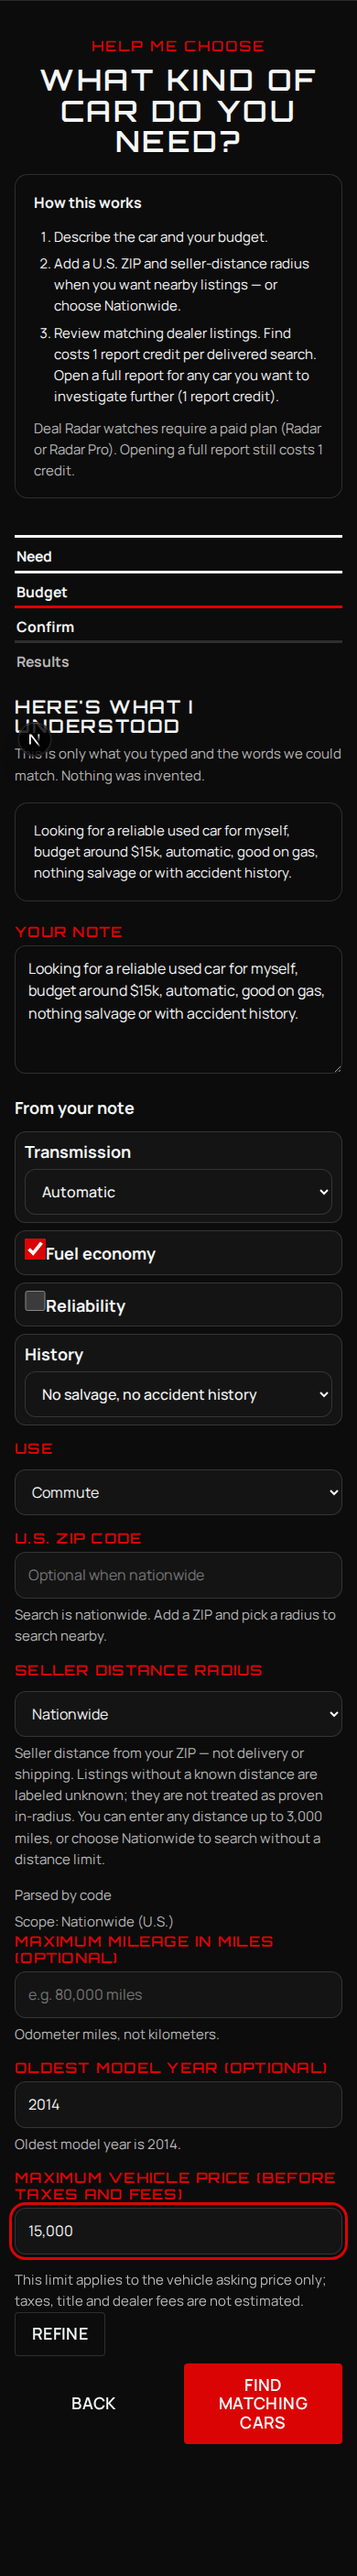
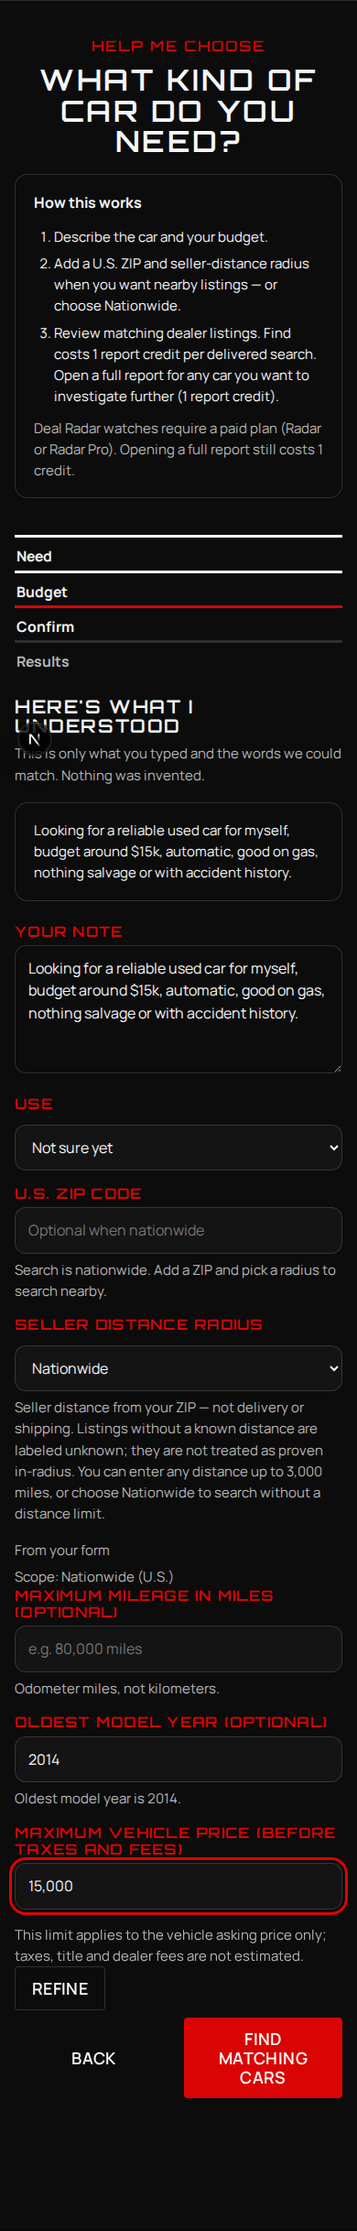
test(e2e): expect Budget-first Find after note-parser removal
Home notes no longer auto-Confirm or prefill from free text. Align
Playwright intake coverage with the thin SERV boundary and refresh
intake screenshots.

Changed region(s): [[0.0, 0.0, 0.9846, 0.9672], [0.8, 0.5616, 0.8615, 0.5928], [0.9231, 0.5616, 0.9538, 0.5928]]

diff --git a/e2e/find-intake.spec.ts b/e2e/find-intake.spec.ts
@@ -21,21 +21,11 @@ async function mockSignedIn(page: Page) {
   });
 }
 
-function budgetUsdFromNote(text: string): number | null {
-  const rangeK = text.match(/(\d{1,3})\s*-\s*(\d{1,3})\s*k\b/i);
-  if (rangeK) return Number(rangeK[2]) * 1000;
-  const k = text.match(/(?:\$|budget|around|under|for)\s*\$?\s*(\d{1,3})\s*k\b/i);
-  if (k) return Number(k[1]) * 1000;
-  const grand = text.match(/(\d{1,3})\s*grand\b/i);
-  if (grand) return Number(grand[1]) * 1000;
-  const dollars = text.match(/for\s+(\d{1,3}(?:,\d{3})*)\s*dollars/i);
-  if (dollars) return Number(dollars[1].replace(/,/g, ""));
-  const cash = text.match(/\$\s*(\d{1,3}(?:,\d{3})*)\b/);
-  if (cash) return Number(cash[1].replace(/,/g, ""));
-  return null;
-}
-
-/** Confirm-entry notes always call /api/need for SERV parse — stub so e2e stays offline. */
+/**
+ * Confirm-entry / Continue calls /api/need for SERV parse — stub so e2e stays offline.
+ * Thin boundary: do not invent budget/transmission/history from note regex; only echo
+ * form-provided fields (and keep the note text).
+ */
 async function mockNeedParse(page: Page) {
   await page.route("**/api/need", async (route) => {
     if (route.request().method() !== "POST") {
@@ -52,9 +42,8 @@ async function mockNeedParse(page: Page) {
     };
     const text = typeof body.text === "string" ? body.text : "";
     const budgetUsd =
-      typeof body.budgetUsd === "number" && Number.isFinite(body.budgetUsd)
-        ? body.budgetUsd
-        : budgetUsdFromNote(text);
+      typeof body.budgetUsd === "number" && Number.isFinite(body.budgetUsd) ? body.budgetUsd : null;
+    const budgetKnown = body.budgetKnown === true && budgetUsd != null;
     await route.fulfill({
       status: 200,
       contentType: "application/json",
@@ -64,13 +53,13 @@ async function mockNeedParse(page: Page) {
         guard: "not_configured",
         need: {
           mode: body.mode === "flip" ? "flip" : "personal",
-          useCase: /family|myself|errands|commute/i.test(text) ? "commute" : "unspecified",
+          useCase: "unspecified",
           note: text,
           budgetUsd,
-          budgetKnown: budgetUsd != null,
+          budgetKnown,
           budgetScope: "car",
           mustHaves: [],
-          priorities: /gas|fuel/i.test(text) ? ["fuel economy"] : [],
+          priorities: [],
           zip: body.zip ?? null,
           distanceMiles: body.distanceMiles ?? null,
           repairAbility: "unknown",
@@ -87,9 +76,9 @@ async function mockNeedParse(page: Page) {
           preferredModelsSource: "none",
           openToOtherMakes: true,
           bodyStyle: null,
-          transmission: /automatic/i.test(text) ? "automatic" : null,
-          fuelEconomyPriority: /gas|fuel/i.test(text),
-          historyPreference: /salvage|accident/i.test(text) ? "no_salvage_no_accidents" : null,
+          transmission: null,
+          fuelEconomyPriority: false,
+          historyPreference: null,
           locationPhrase: null,
         },
         followUps: [],
@@ -142,9 +131,9 @@ async function mockNeedParse(page: Page) {
           },
         ],
         criteriaParse: {
-          source: "code",
+          source: "form",
           responseId: null,
-          label: "Parsed by code",
+          label: "From your form",
         },
       }),
     });
@@ -172,7 +161,7 @@ test("signed-out Find shows sign-in before the form", async ({ page }) => {
   await expect(page.locator("#need")).toHaveCount(0);
 });
 
-test("home note opens Find confirm with the note prefilled", async ({ page }) => {
+test("home note opens Find at Budget — note carried, no code prefill", async ({ page }) => {
   const blocked: string[] = [];
   const blockPaid = async (route: import("@playwright/test").Route) => {
     blocked.push(`${route.request().method()} ${route.request().url()}`);
@@ -199,55 +188,28 @@ test("home note opens Find confirm with the note prefilled", async ({ page }) =>
   await expect(page).toHaveURL(/\/find\?/);
   await expect(page).toHaveURL(/home-mode=on/);
   await expect(page).toHaveURL(/mode=personal/);
-  await expect(page.getByRole("heading", { name: /what i understood/i })).toBeVisible();
-  await expect(page.locator(".progress .is-current")).toHaveText("Confirm");
-  await expect(page.getByLabel(/maximum vehicle price/i)).toHaveValue("15,000");
-  await expect(page.getByLabel("Transmission")).toHaveValue("automatic");
-  await expect(page.getByLabel("History")).toHaveValue("no_salvage_no_accidents");
-  await expect(page.getByRole("checkbox", { name: /fuel economy/i })).toBeChecked();
-  await expect(page.getByText("from your note").first()).toBeVisible();
-  await expect(page.getByText(/you chose no year floor/i)).toHaveCount(0);
-  await expect(page.getByLabel(/maximum vehicle price/i)).toBeVisible();
 
-  const year = page.locator("#year-min-edit");
-  await year.click();
-  await year.pressSequentially("2016", { delay: 30 });
-  await expect(year).toHaveValue("2016");
-  await expect(page.getByText(/you chose no year floor/i)).toHaveCount(0);
-  await year.fill("");
-  await expect(year).toHaveValue("");
-  await expect(page.getByText(/you chose no year floor/i)).toHaveCount(0);
-  await year.pressSequentially("2014", { delay: 30 });
-  await expect(year).toHaveValue("2014");
-
-  const priceOnConfirm = page.getByLabel(/maximum vehicle price/i);
-  await priceOnConfirm.fill("18000");
-  await expect(priceOnConfirm).toHaveValue("18000");
-  await priceOnConfirm.fill("15,000");
-  await expect(priceOnConfirm).toHaveValue("15,000");
-  await expect(page.getByText("from your note").first()).toBeVisible();
-
-  await page.evaluate(() => {
-    document.querySelectorAll<HTMLElement>(".bar, .skip").forEach((el) => {
-      el.style.position = "static";
-      el.style.transform = "none";
-    });
-    window.scrollTo(0, 0);
-  });
-  await page.locator("main").screenshot({ path: "docs/screenshots/intake/confirm-1280.png" });
-
-  await page.setViewportSize({ width: 390, height: 844 });
-  await expect(year).toHaveValue("2014");
-  const overflow = await page.evaluate(() => document.documentElement.scrollWidth - document.documentElement.clientWidth);
-  expect(overflow).toBeLessThanOrEqual(1);
-  await page.evaluate(() => window.scrollTo(0, 0));
-  await page.locator("main").screenshot({ path: "docs/screenshots/intake/confirm-390.png" });
-
-  await page.setViewportSize({ width: 1280, height: 800 });
-  await page.getByRole("button", { name: "Back" }).click();
+  // Thin boundary: note parsers are gone — land on Budget, never auto-Confirm.
+  await expect(page.getByRole("heading", { name: /what i understood/i })).toHaveCount(0);
+  await expect(page.locator(".progress .is-current")).toHaveText("Budget");
+  await expect(page).toHaveURL(/note=/);
   const price = page.locator("#budget");
   await expect(price).toBeVisible();
-  await expect(price).toHaveValue("15,000");
+  await expect(price).toHaveValue("");
+  await expect(page.getByRole("checkbox", { name: /not sure yet/i })).toBeVisible();
+  await expect(page.getByText("from your note")).toHaveCount(0);
+
+  // Back reveals Need with the home note still in the textarea (stay offline — do not Continue).
+  await page.getByRole("button", { name: "Back" }).click();
+  await expect(page.locator("#need")).toBeVisible();
+  await expect(page.locator("#need")).toHaveValue(NOTE);
+  await page.getByRole("button", { name: "Back" }).click();
+  // From Need, Back returns home; re-open so we stay on the Budget entry path.
+  await page.locator("#home-note").fill(NOTE);
+  await page.getByRole("button", { name: "Find cars" }).click();
+  await expect(page).toHaveURL(/\/find\?/);
+  await expect(page.locator(".progress .is-current")).toHaveText("Budget");
+
   const check = page.locator("label.check-line");
   await expect(check).toBeVisible();
   const priceBox = await price.boundingBox();
@@ -271,32 +233,69 @@ test("home note opens Find confirm with the note prefilled", async ({ page }) =>
   await page.evaluate(() => window.scrollTo(0, 0));
   await page.locator("main").screenshot({ path: "docs/screenshots/intake/budget-not-sure-390.png" });
 
+  // Form-owned budget → Confirm (SERV stub echoes form fields only).
+  await page.setViewportSize({ width: 1280, height: 800 });
+  await price.fill("15000");
+  await page.getByRole("button", { name: "Continue" }).click();
+  await expect(page.getByRole("heading", { name: /what i understood/i })).toBeVisible();
+  await expect(page.locator(".progress .is-current")).toHaveText("Confirm");
+  await expect(page.getByLabel(/maximum vehicle price/i)).toHaveValue("15,000");
+  // Code must not label form values as coming from the note.
+  await expect(page.getByText("from your note")).toHaveCount(0);
+  await expect(page.getByText(/you chose no year floor/i)).toHaveCount(0);
+
+  const year = page.locator("#year-min-edit");
+  await year.click();
+  await year.pressSequentially("2016", { delay: 30 });
+  await expect(year).toHaveValue("2016");
+  await expect(page.getByText(/you chose no year floor/i)).toHaveCount(0);
+  await year.fill("");
+  await expect(year).toHaveValue("");
+  await year.pressSequentially("2014", { delay: 30 });
+  await expect(year).toHaveValue("2014");
+
+  const priceOnConfirm = page.getByLabel(/maximum vehicle price/i);
+  await priceOnConfirm.fill("18000");
+  await expect(priceOnConfirm).toHaveValue("18000");
+  await priceOnConfirm.fill("15,000");
+  await expect(priceOnConfirm).toHaveValue("15,000");
+
+  await page.evaluate(() => {
+    document.querySelectorAll<HTMLElement>(".bar, .skip").forEach((el) => {
+      el.style.position = "static";
+      el.style.transform = "none";
+    });
+    window.scrollTo(0, 0);
+  });
+  await page.locator("main").screenshot({ path: "docs/screenshots/intake/confirm-1280.png" });
+
+  await page.setViewportSize({ width: 390, height: 844 });
+  await expect(year).toHaveValue("2014");
+  const overflow = await page.evaluate(() => document.documentElement.scrollWidth - document.documentElement.clientWidth);
+  expect(overflow).toBeLessThanOrEqual(1);
+  await page.evaluate(() => window.scrollTo(0, 0));
+  await page.locator("main").screenshot({ path: "docs/screenshots/intake/confirm-390.png" });
+
   expect(blocked).toEqual([]);
 });
 
-test("note phrasings prefill a budget or leave the price step when none was written", async ({ page }) => {
+test("note phrasings never skip Budget — code does not prefill from free text", async ({ page }) => {
   await mockSignedIn(page);
   await mockNeedParse(page);
-  const cases: Array<{ note: string; price: string | null }> = [
-    { note: "Looking for a reliable used car, budget around $15k.", price: "15,000" },
-    { note: "Looking for a reliable used car for 15,000 dollars.", price: "15,000" },
-    { note: "Looking for a reliable used car under 20 grand.", price: "20,000" },
-    { note: "Looking for a reliable used car around 12-15k.", price: "15,000" },
-    { note: "Looking for a reliable used car for errands.", price: null },
+  const cases = [
+    "Looking for a reliable used car, budget around $15k.",
+    "Looking for a reliable used car for 15,000 dollars.",
+    "Looking for a reliable used car under 20 grand.",
+    "Looking for a reliable used car around 12-15k.",
+    "Looking for a reliable used car for errands.",
   ];
-  for (const item of cases) {
-    await openHomeNote(page, item.note);
-    if (item.price == null) {
-      await expect(page.getByRole("heading", { name: /what i understood/i })).toHaveCount(0);
-      await expect(page.locator("#budget")).toBeVisible();
-      await expect(page.getByRole("checkbox", { name: /not sure yet/i })).toBeVisible();
-      continue;
-    }
-    await expect(page.getByRole("heading", { name: /what i understood/i })).toBeVisible();
-    await expect(page.locator(".progress .is-current")).toHaveText("Confirm");
-    await expect(page.getByLabel(/maximum vehicle price/i)).toHaveValue(item.price);
-    await expect(page.getByText("from your note").first()).toBeVisible();
-    await expect(page.getByRole("checkbox", { name: /not sure yet/i })).toHaveCount(0);
-    await expect(page.getByText(/oldest model year you will consider/i)).toHaveCount(0);
+  for (const note of cases) {
+    await openHomeNote(page, note);
+    await expect(page.getByRole("heading", { name: /what i understood/i })).toHaveCount(0);
+    await expect(page.locator(".progress .is-current")).toHaveText("Budget");
+    await expect(page.locator("#budget")).toBeVisible();
+    await expect(page.locator("#budget")).toHaveValue("");
+    await expect(page.getByRole("checkbox", { name: /not sure yet/i })).toBeVisible();
+    await expect(page.getByText("from your note")).toHaveCount(0);
   }
 });
